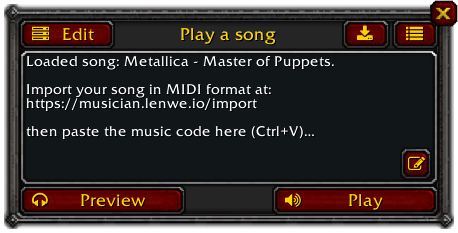
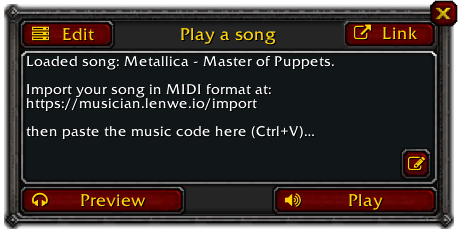
Updated README with the new features

Changed region(s): [[0.7336, 0.0601, 0.9782, 0.2103]]

diff --git a/README.md b/README.md
@@ -60,9 +60,11 @@ Songs can be saved and loaded back in game using the optional add-on [MusicianLi
 ### Play as a band
 Songs can be played in sync as a band, in which each member is playing a different part.
 
-To allow synchronized play, all band members should be grouped in the same party or raid.
+To allow synchronized play, all band members should be grouped in the same party or raid and have the same song loaded into Musician.
 
-1. Load the same song as the other members of the band from MIDI of [from the list](https://musician.lenwe.io/musicianlist).
+Use the **Link**/**Export** button ![Link button](./img/link-button.png) to share songs with your band members.
+
+1. Load the same song as the other members of the band from MIDI, [from the list](https://musician.lenwe.io/musicianlist) or from a song chat link.
 2. Open the **Song Editor** then check **Solo** for the tracks you want to play with your character. Adjust other track settings as you like.
 3. Click the **Play as a band** button ![Play as band button](./img/band-play-button-song.png) when you're done (the green LED starts blinking).
 4. When every member is ready, the band leader clicks the **Play** button for synchronized start (the green LED turns on).
@@ -70,7 +72,6 @@ To allow synchronized play, all band members should be grouped in the same party
 
 Remarks:
 
-* The song should be loaded from the same MIDI file to work.
 * Mouse over the **Play as a band** button to check which members of the band are ready.
 * Each band member can do all the changes they want in the Song Editor, except changing the start and end points that would result in being out of sync.
 * Keep in mind that the overall polyphony is limited and is shared among all the members of the band.
@@ -126,11 +127,17 @@ Some basic modifications can be made to the imported song in the song editor, wh
 * Change track instruments
 * Transpose tracks
 
-The song editor also shows some information about the tracks (MIDI instrument, start and end points, number of notes...) and the activity while the song is playing.
+The song editor also shows some information about the tracks (MIDI instrument, start and end points, number of notes…) and the activity while the song is playing. Click the track start or end point timecode to reach it in the timeline.
 
 You can still change the track settings of the song currently playing by clicking the **Synchronize track settings** button ![Synchronize track settings button](./img/synchronize-track-settings-button.png) as long as you have the same song loaded in the editor.
 
 ![Song editor](./img/song-editor.png)
+
+Share your songs with the other players
+---------------------------------------
+Songs can be shared with other players as links to be posted into the chat. Click the **Link** or **Export** button ![Link button](./img/link-button.png), set a title and you're done!
+
+The links remain active until you log out or reload the interface.
 
 Cross-faction play
 ------------------
@@ -154,16 +161,22 @@ Musician integrates with role-playing add-ons [Total RP](https://www.curseforge.
 
 ![Total RP map scan](./img/trp-map-scan.png)
 
-Tips
-----
+In addition, the [Total RP Extended](https://www.curseforge.com/wow/addons/total-rp-3-extended) plugin allows you to export your songs as sheet music items that can be traded with other players. Click the **Export** button to create one.
+
+![Total RP Extended item export](./img/total-rp-extended-item-export.png)![Total RP Extended item in bag](./img/total-rp-extended-sheet-music-item.png)
+
+Tips and tricks
+---------------
 * You can preview the song at any moment prior to playing it for other players by clicking the **Preview** button or using the song editor. If another song is playing nearby, it will be muted for you only.
 * If another player has Musician, it will be shown in his/her tooltip. Just hover the other players with your mouse cursor to see who can hear you!
-* You can add lyrics by combining Musician with the [StoryTeller add-on](https://musician.lenwe.io/storyteller)!
-* Load the next song while the current one is playing to reduce waiting time between songs.
+* Use toys such as the [\[Blingtron's Circuit Design Tutorial\]](https://www.wowhead.com/item=132518/blingtrons-circuit-design-tutorial) and the [\[Fae Harp\]](https://www.wowhead.com/item=184489/fae-harp) to make your performance visually more immersive!
+* You can add lyrics by combining Musician with the [StoryTeller add-on](https://musician.lenwe.io/storyteller).
+* Load and prepare the next song while the current one is playing to reduce waiting time between songs.
 * The radius for hearing the music is approximately 40 meters.
 * Play songs that are relevant with your "band" composition. It's nonsense to play orchestral music with only two bards ! 😃 However you can still role-play as if your character owns a kind of gnomish *Music-o-Matic* jukebox machine that is capable of reproducing a whole band.
 * A text emote is shown to the players who don't have Musician when you play a song. You can disable this emote in the add-on options.
-* Nameplates animations and icons are compatible with the most popular nameplate add-ons (KuiNameplates, Plater, ElvUI...).
+* Nameplates animations and icons are compatible with the most popular nameplate add-ons (KuiNameplates, Plater, ElvUI…).
+* [Check out the wiki](https://github.com/LenweSaralonde/Musician/wiki/) for more!
 
 Compose your own music
 ----------------------
@@ -203,7 +216,7 @@ The drum kits are replaced by traditional percussions such as a bodhrán (frame 
 
 Check the full mapping in [Musician.MidiMapping.lua](https://github.com/LenweSaralonde/Musician/blob/master/constants/Musician.MidiMapping.lua) for details.
 
-Unfortunately, due to limitations of the WoW UI, velocity and controls (volume, padding, pitch bend, modulation...) are not supported. The polypohony is roughly 12 notes.
+Unfortunately, due to limitations of the WoW UI, velocity and controls (volume, padding, pitch bend, modulation…) are not supported. The polypohony is roughly 12 notes.
 
 Limitations and known issues
 ----------------------------
